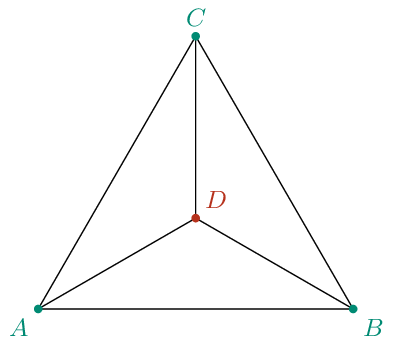
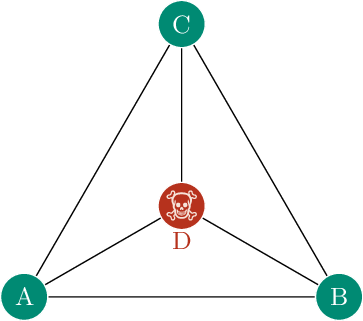
Nice image

Changed region(s): [[0.0, 0.0, 1.0, 0.9969], [0.5758, 0.6854, 0.6667, 0.7477], [0.3333, 0.6854, 0.4242, 0.7477]]

diff --git a/4th year/04 geavanceerd/19 driehoekskruipers/description/media/image.tex b/4th year/04 geavanceerd/19 driehoekskruipers/description/media/image.tex
@@ -1,5 +1,6 @@
 \documentclass[dvipsnames,tikz]{standalone}
 \usepackage{amsmath}
+\usepackage{arevmath}
 \usepackage{xcolor}
 \usepackage{tikz}
 \usetikzlibrary{calc}
@@ -12,9 +13,11 @@
 		\draw (0,0)-- (2,1.154) -- (2,3.464);
 		\draw (2,1.154)-- (4,0);
 		
-		\fill[PineGreen] (0,0) circle (1.5pt) node [below left] {$A$};
-		\fill[PineGreen] (4,0) circle (1.5pt) node [below right] {$B$};
-		\fill[PineGreen] (2,3.464) circle (1.5pt) node [above] {$C$};
-		\fill[BrickRed] (2,1.154) circle (1.5pt) node [above right] {$D$};
+		\draw[white, fill=PineGreen] (0,0) circle (0.3cm) node {A};
+		\draw[white, fill=PineGreen] (4,0) circle (0.3cm) node  {B};
+		\draw[white, fill=PineGreen] (2,3.464) circle (0.3cm) node {C};
+		\draw[white, fill=BrickRed] (2,1.154) circle (0.3cm);
+		\draw[white!90!BrickRed] (2,1.154) node {\Large $\skull$};
+		\draw[BrickRed] (2,1.154) node [below, yshift=-0.2cm] {D};
 	\end{tikzpicture}
 \end{document}
